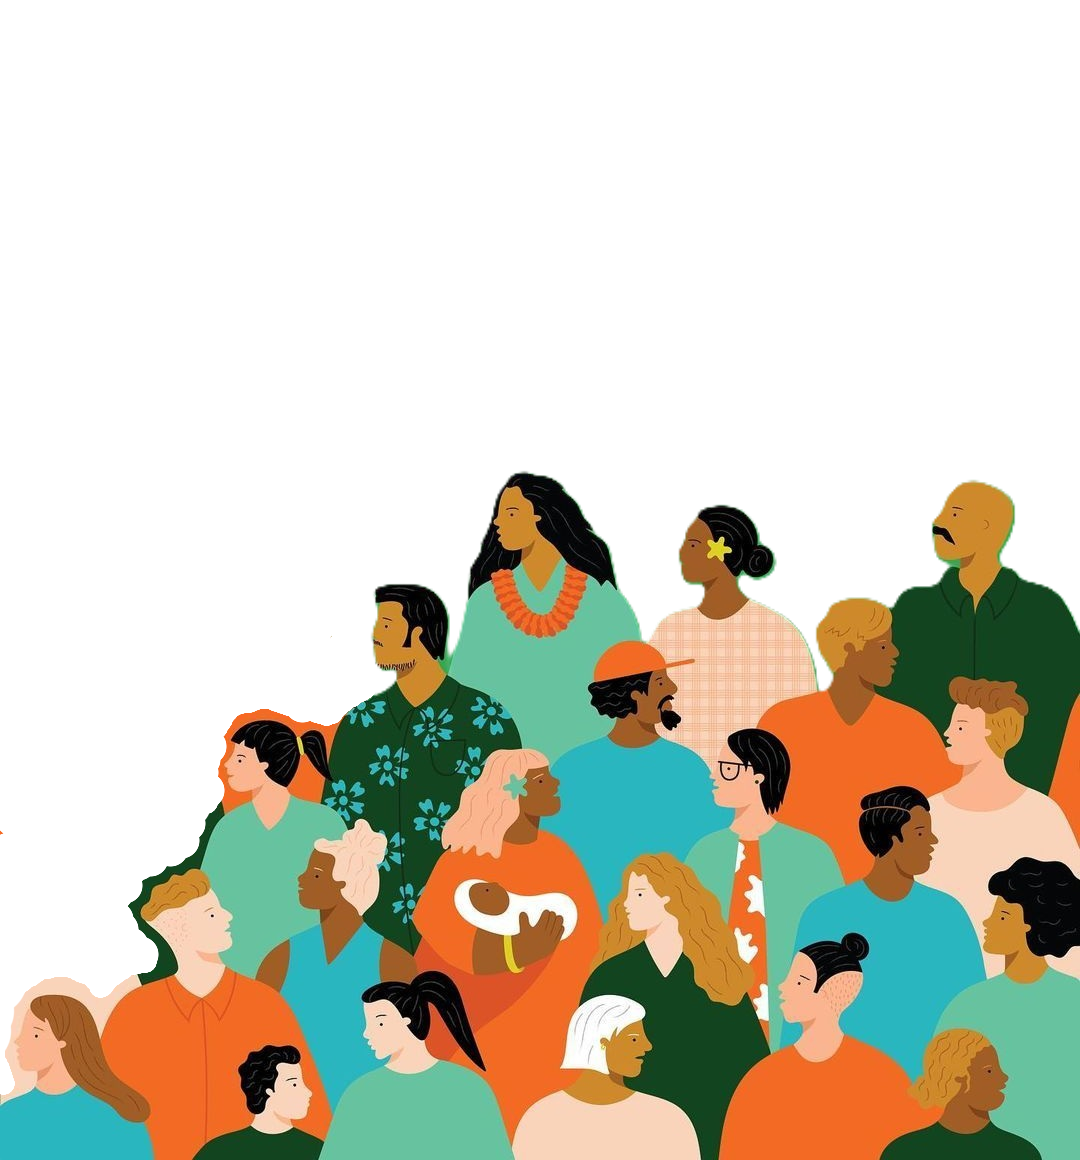
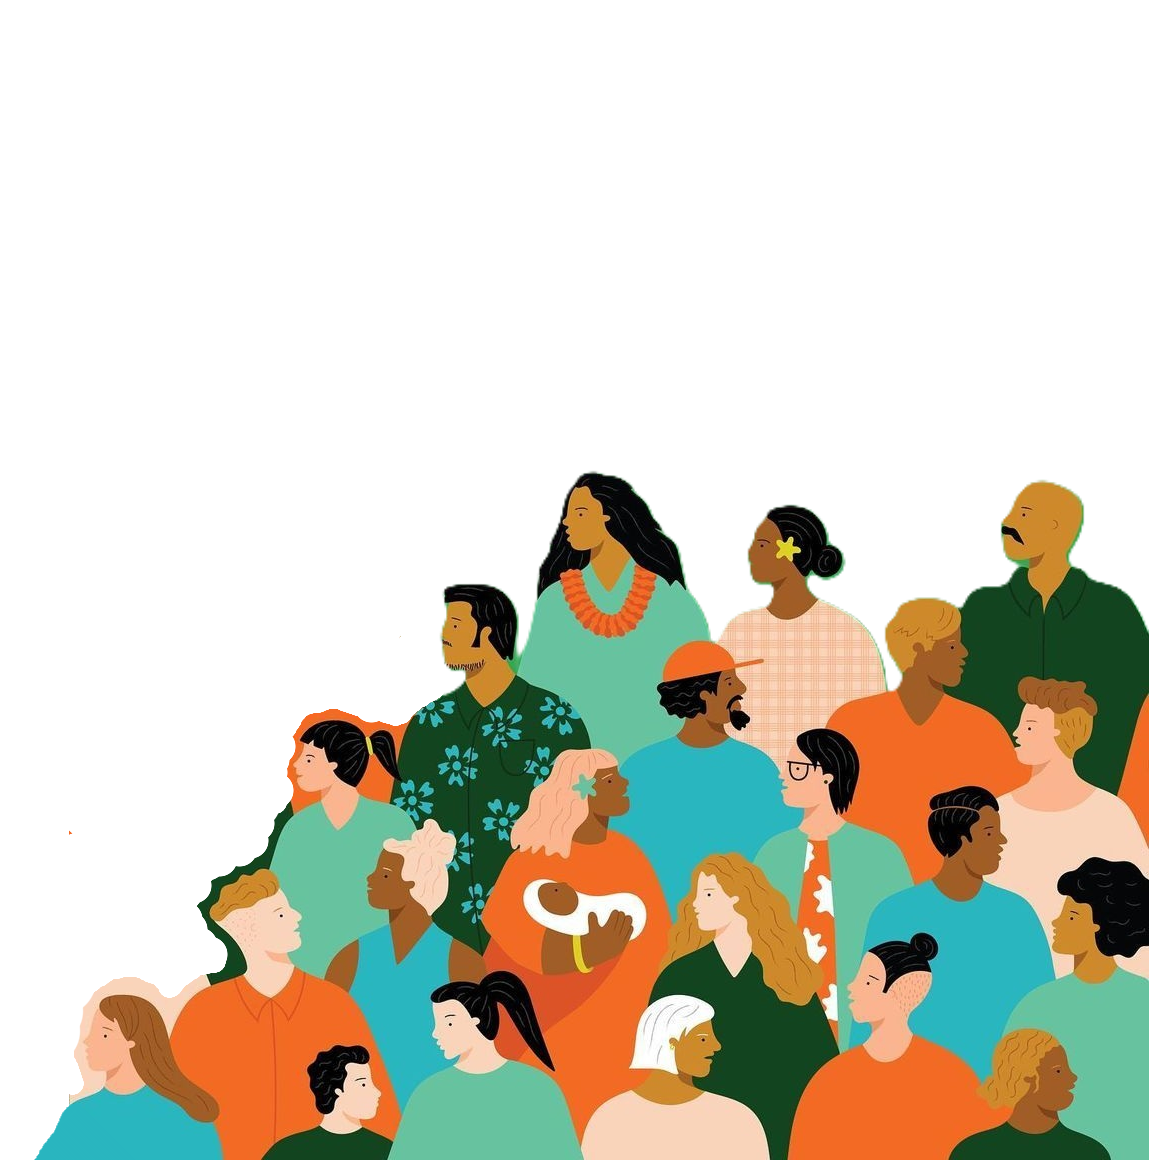
base finished

Changed region(s): [[0.0, 0.4034, 0.9778, 1.0], [0.9778, 0.6207, 1.0, 0.6517]]

diff --git a/src/app/auth/login/LoginForm.tsx b/src/app/auth/login/LoginForm.tsx
@@ -1,0 +1,72 @@
+"use client";
+import { toast } from "sonner";
+import Button from "@/components/Button/Button";
+import Input from "@/components/Input/Input";
+import SaveButton from "@/components/SaveButton/SaveButton";
+
+export default function Login() {
+  return (
+    <div className="relative z-10 min-h-screen flex items-center justify-center p-10">
+      <div
+        className="w-[350px] max-w-4xl h-[400px] flex flex-col items-center justify-center rounded-[20px] shadow-lg"
+        style={{
+          backgroundColor: "var(--navbarcolor)",
+          gap: "30px",
+        }}
+      >
+        لاگین و ساین اپ
+<div className="flex items-center" style={{ gap: "12px" }}>
+  <Input placeholder="Enter text..." />
+  <SaveButton />
+</div>
+<div className="flex items-center" style={{ gap: "12px" }}>
+  <Input placeholder="Enter text..." />
+  <SaveButton />
+</div>
+
+        <div className="flex flex-wrap gap-3 justify-center">
+          <Button
+            variant="primary"
+            onClick={() =>
+              toast.success("عملیات موفق بود", {
+                description: "اطلاعات با موفقیت ذخیره شد",
+              })
+            }
+          >
+            primary
+          </Button>
+          <Button
+            variant="destructive"
+            onClick={() =>
+              toast.error("خطا رخ داد", {
+                description: "لطفاً دوباره تلاش کنید",
+              })
+            }
+          >
+            destructive
+          </Button>
+          <Button
+            variant="secondary"
+            onClick={() =>
+              toast("پیام عادی", {
+                description: "این یک toast معمولی است",
+              })
+            }
+          >
+            secondary
+          </Button>
+          <Button
+            variant="outline"
+            onClick={() =>
+              toast("پیام عادی", {
+                description: "این یک toast معمولی است",
+              })
+            }
+          >
+            outline
+          </Button>
+        </div>
+      </div>
+    </div>
+  );
+}

diff --git a/src/app/layout.tsx b/src/app/layout.tsx
@@ -1,9 +1,11 @@
 import type { Metadata } from "next";
 import { Geist, Geist_Mono } from "next/font/google";
-import "./globals.css";
-import Navbar from "@/components/Navbar/Navbar";
-import Footer from "@/components/Footer/Footer";
 import { Toaster } from "sonner";
+
+import "./globals.css";
+
+import Navbar from "@/components/Navbar/Navbar";
+import HideableFooter from "@/components/Footer/HideableFooter";
 
 const geistSans = Geist({
   variable: "--font-geist-sans",
@@ -27,20 +29,33 @@ export default function RootLayout({
 }>) {
   return (
     <html lang="en" suppressHydrationWarning>
-      <body 
-      suppressHydrationWarning  // ← این رو اضافه کن
-      className={`${geistSans.variable} ${geistMono.variable} antialiased min-h-screen flex flex-col min-h-screen`}>
-  <Navbar />
-  <main className="flex-1"> {/* ← این مهمه */}
-    {children}
-  </main>
-  <Footer />
+      <body
+        suppressHydrationWarning
+        className={`${geistSans.variable} ${geistMono.variable} antialiased min-h-screen flex flex-col`}
+      >
+        {/* Navbar */}
+        <Navbar />
 
+        {/* Main Content */}
+        <main className="flex-1">
+          {children}
+        </main>
+
+        {/* Footer (hidden on auth pages) */}
+        <HideableFooter />
+
+        {/* Global Toasts */}
         <Toaster
           richColors
           position="top-right"
           closeButton
           expand
+          duration={4000}
+          toastOptions={{
+            style: {
+              borderRadius: "12px",
+            },
+          }}
         />
       </body>
     </html>

diff --git a/src/app/auth/login/AuthBackground.tsx b/src/app/auth/login/AuthBackground.tsx
@@ -6,7 +6,7 @@ import { useDesktopTablet } from "@/hooks/ResponsiveHooks";
 
 import bottomRightImage from "@/assets/images/53.png";
 import topLeftImage from "@/assets/images/Vector56.svg";
-import mobileBackgroundImage from "@/assets/images/login-signup-mobile-background.png";
+import mobileBackgroundImage from "@/assets/images/w.jpg";
 
 import { cn } from "@/lib/utils";
 
@@ -44,8 +44,21 @@ export default function AuthBackground({
 							zIndex: 0,
 						}}
 					/>
-
 					<img
+						src={topLeftImage.src}
+						alt="Paw icon top left"
+						style={{
+							position: "fixed",
+							top: 0,
+							left: 0,
+							height: loginPage ? "60vh" : "55vh",
+							width: "auto",
+							pointerEvents: "none",
+							zIndex: 0,
+						}}
+					/>
+
+<img
 						src={bottomRightImage.src}
 						alt="Bone icon bottom right"
 						style={{

diff --git a/src/components/Footer/HideableFooter.tsx b/src/components/Footer/HideableFooter.tsx
@@ -1,0 +1,17 @@
+"use client";
+
+import { usePathname } from "next/navigation";
+import Footer from "@/components/Footer/Footer";
+
+export default function HideableFooter() {
+  const pathname = usePathname();
+
+  const isAuthPage =
+    pathname.startsWith("/auth") ||
+    pathname.startsWith("/login") ||
+    pathname.startsWith("/register");
+
+  if (isAuthPage) return null;
+
+  return <Footer />;
+}

diff --git a/src/components/theme/ThemeToggle.module.scss b/src/components/theme/ThemeToggle.module.scss
@@ -1,4 +1,3 @@
-// ─── THEME TOGGLE ────────────────────────────────────────────────────────────
 
 $switch-padding: 0.25em;
 
@@ -19,7 +18,6 @@ $switch-padding: 0.25em;
 
   transition: background 0.3s ease;
 
-  // همیشه primary کامل
   background: var(--secondary);
 
   &:focus-visible {
@@ -27,7 +25,6 @@ $switch-padding: 0.25em;
   }
 }
 
-// ─── ICON WRAPPERS ───────────────────────────────────────────────────────────
 
 .iconLeft,
 .iconRight {
@@ -50,17 +47,15 @@ $switch-padding: 0.25em;
   right: 0;
 }
 
-// ─── ICONS (FIX اصلی اینجاست) ───────────────────────────────────────────────
 
 .icon {
-  width: 1em;        // ✅ FIX: سایز ثابت و یکسان
-  height: 1em;       // ✅ FIX: سایز ثابت و یکسان
-  flex-shrink: 0;    // جلوگیری از تغییر سایز در flex
-  display: block;    // جلوگیری از baseline shift
+  width: 1em;
+  height: 1em;
+  flex-shrink: 0;
+  display: block;
   transition: opacity 0.3s ease;
 }
 
-// states (بدون تغییر سایز، فقط opacity / color)
 
 .sunActive {
   opacity: 1;
@@ -82,7 +77,6 @@ $switch-padding: 0.25em;
   color: var(--secondary-rgb);
 }
 
-// ─── THUMB ───────────────────────────────────────────────────────────────────
 
 .thumb {
   position: absolute;
@@ -103,7 +97,6 @@ $switch-padding: 0.25em;
   transition: transform 0.3s ease;
 }
 
-// ─── CHECKED STATE ──────────────────────────────────────────────────────────
 
 .checked {
   transform: translateX(2em);

diff --git a/src/app/aboutus/page.tsx b/src/app/aboutus/page.tsx
@@ -1,0 +1,6 @@
+export default function Login() {
+	return (
+		<div >
+		</div>
+	);
+}

diff --git a/src/app/auth/login/page.tsx b/src/app/auth/login/page.tsx
@@ -1,13 +1,13 @@
 import AuthBackground from "@/app/auth/login/AuthBackground";
 
-// import LoginForm from "@/app/auth/login/LoginForm";
+import LoginForm from "@/app/auth/login/LoginForm";
 
 export default function Login() {
 	return (
 		<div className="w-screen h-screen bg-background overflow-hidden justify-center flex">
 			<AuthBackground loginPage={true} />
-
-			{/* <LoginForm /> */}
+				
+			<LoginForm />
 		</div>
 	);
 }

diff --git a/src/app/posters/page.tsx b/src/app/posters/page.tsx
@@ -1,0 +1,6 @@
+export default function Login() {
+	return (
+		<div >
+		</div>
+	);
+}

diff --git a/src/app/profile/page.tsx b/src/app/profile/page.tsx
@@ -1,0 +1,6 @@
+export default function Login() {
+	return (
+		<div >
+		</div>
+	);
+}

diff --git a/src/app/page.tsx b/src/app/page.tsx
@@ -13,7 +13,8 @@ export default function ToastDemo() {
         backgroundColor: "var(--navbarcolor)",
         gap: "30px",
       }}
-    >
+      >
+        سرچ یوزر و آگهی هردو....
 <div className="flex items-center" style={{ gap: "12px" }}>
   <Input placeholder="Enter text..." />
   <SaveButton />

diff --git a/src/components/SaveButton/SaveButton.module.scss b/src/components/SaveButton/SaveButton.module.scss
@@ -11,13 +11,12 @@
   background-color: var(--accent);
   color: #fff;
 
-  border: none;            /* 🚫 مهم */
+  border: none;            
   outline: none;
   box-shadow: none;
 
   transition: all 0.2s ease;
 
-  /* جلوگیری از rendering weird edge */
   -webkit-font-smoothing: antialiased;
   -moz-osx-font-smoothing: grayscale;
 

diff --git a/src/components/theme/ThemeToggle.tsx b/src/components/theme/ThemeToggle.tsx
@@ -40,7 +40,6 @@ export default function ThemeToggle() {
 			onCheckedChange={setIsDark}
 			className={styles.toggle}
 		>
-			{/* LEFT ICON */}
 			<div className={styles.iconLeft}>
 				<SunIcon
 					className={`${styles.icon} ${
@@ -49,7 +48,6 @@ export default function ThemeToggle() {
 				/>
 			</div>
 
-			{/* RIGHT ICON */}
 			<div className={styles.iconRight}>
 				<MoonIcon
 					className={`${styles.icon} ${
@@ -58,7 +56,6 @@ export default function ThemeToggle() {
 				/>
 			</div>
 
-			{/* THUMB */}
 			<SwitchPrimitives.Thumb
 				className={`${styles.thumb} ${
 					isDark ? styles.checked : ""